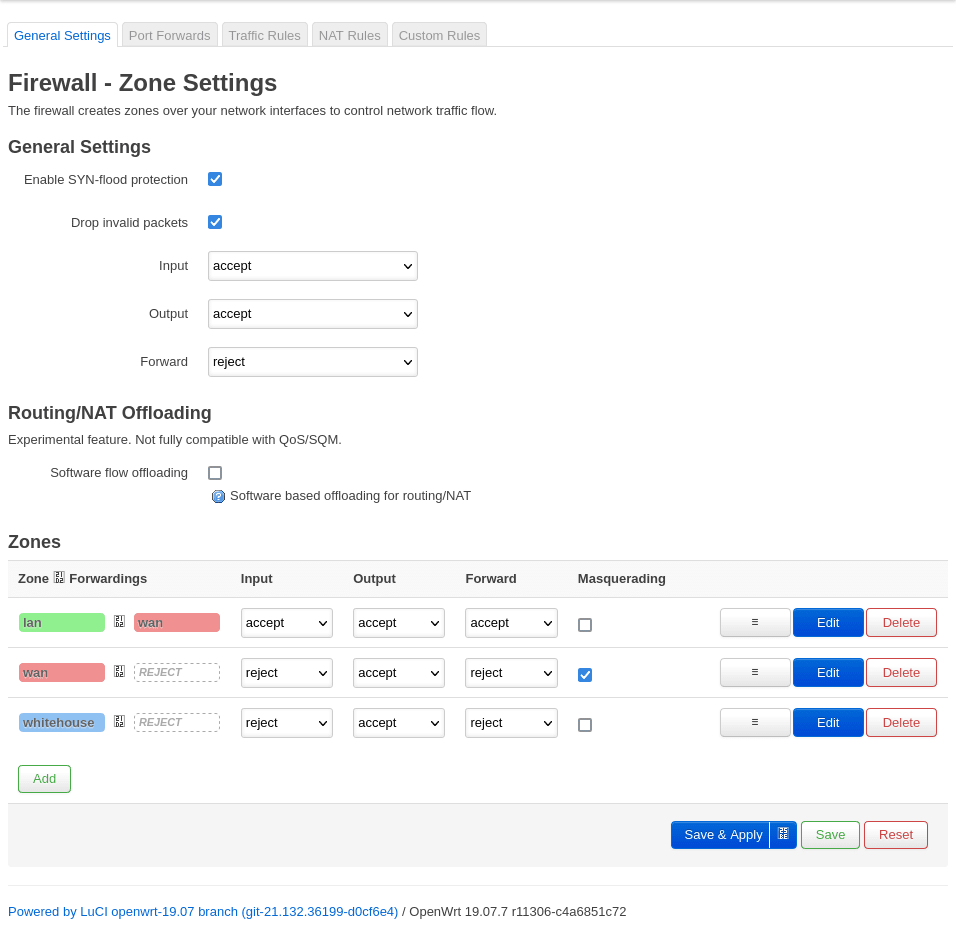
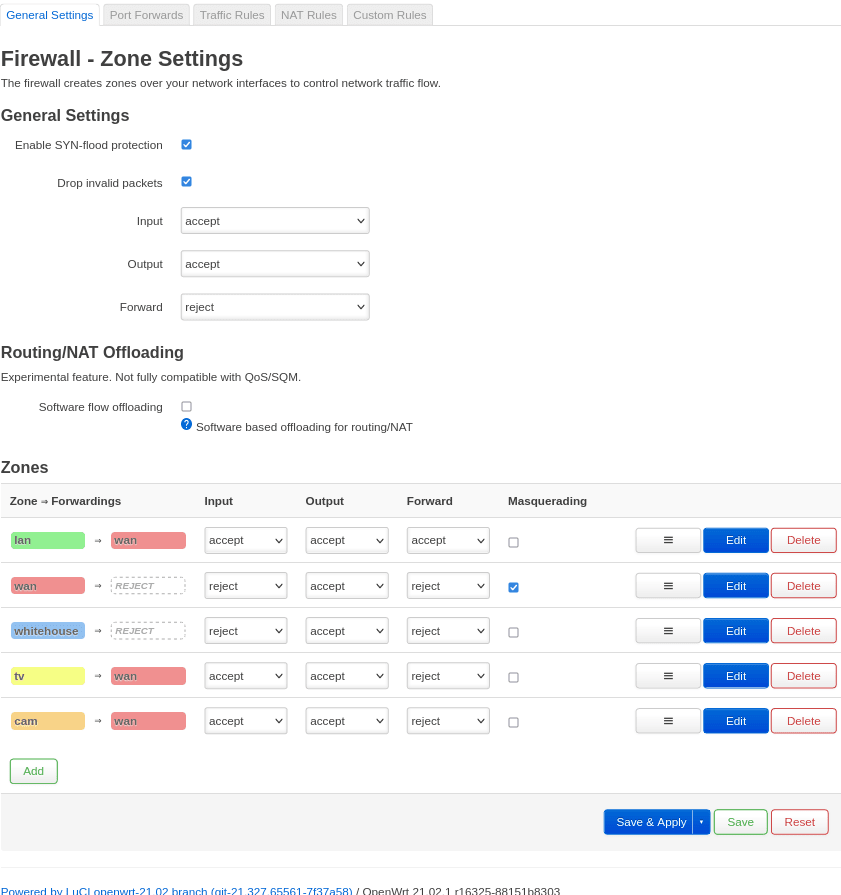
Add IPv6 config for cam and tv interface; update general fw setting screenshot

diff --git a/router/README.md b/router/README.md
@@ -853,6 +853,9 @@ uci set dhcp.tv.limit='150'
 uci set dhcp.tv.leasetime='12h'
 uci set dhcp.tv.ra='server'
 uci set dhcp.tv.dhcpv6='server'
+uci add_list dhcp.tv.ra_flags='managed-config'
+uci add_list dhcp.tv.ra_flags='other-config'
+uci set network.tv.ip6assign='60'
 uci add_list firewall.cfg1adc81.network='tv'
 uci set network.tv=interface
 uci set network.tv.proto='static'
@@ -947,6 +950,9 @@ uci set dhcp.cam.limit='150'
 uci set dhcp.cam.leasetime='12h'
 uci set dhcp.cam.ra='server'
 uci set dhcp.cam.dhcpv6='server'
+uci add_list dhcp.cam.ra_flags='managed-config'
+uci add_list dhcp.cam.ra_flags='other-config'
+uci set network.cam.ip6assign='60'
 uci add_list firewall.cfg1cdc81.network='cam'
 uci set network.cam=interface
 uci set network.cam.proto='static'
